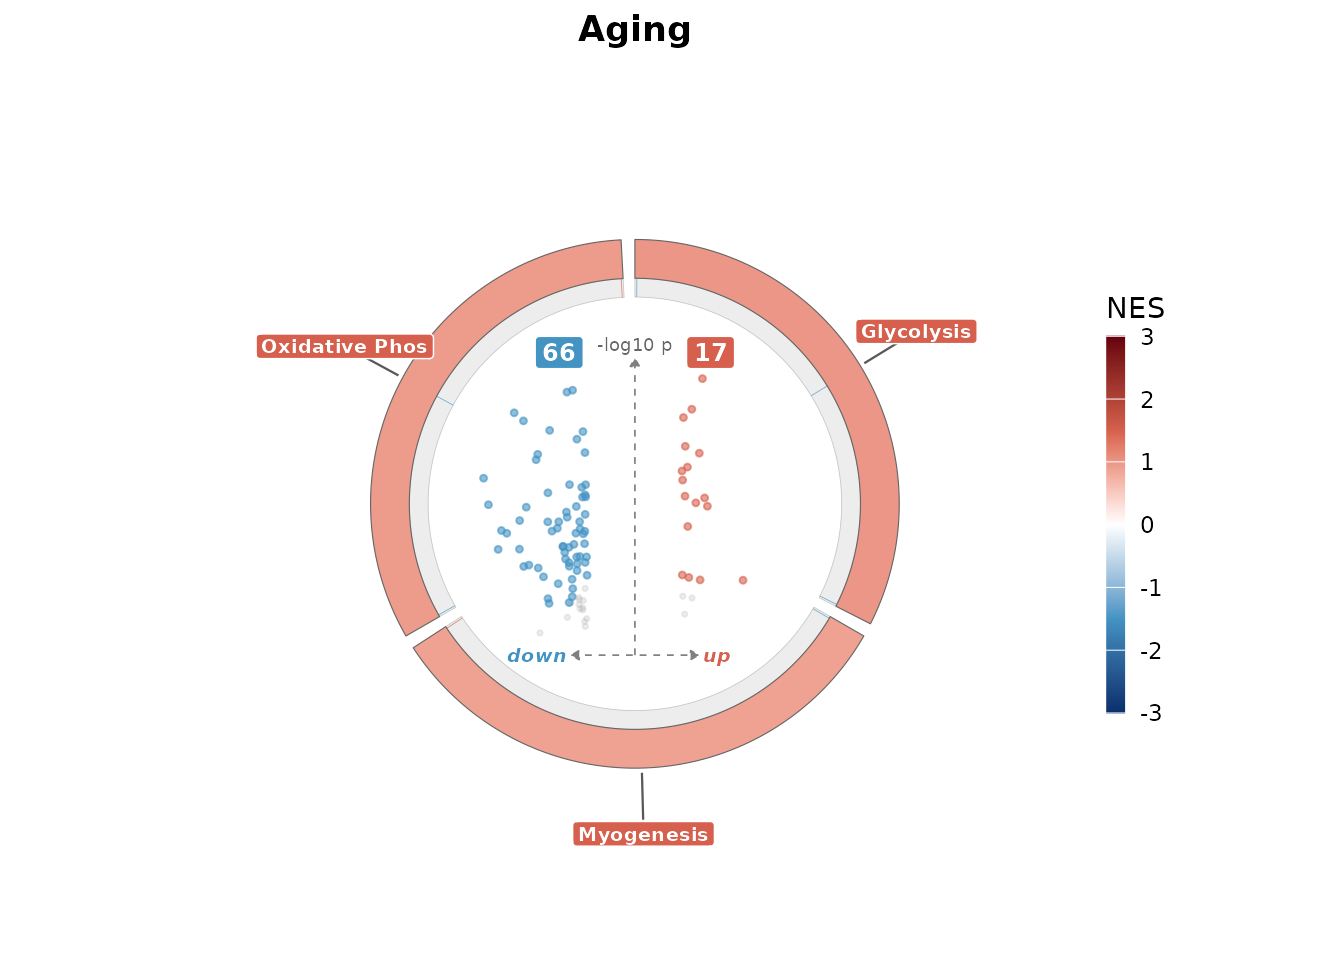
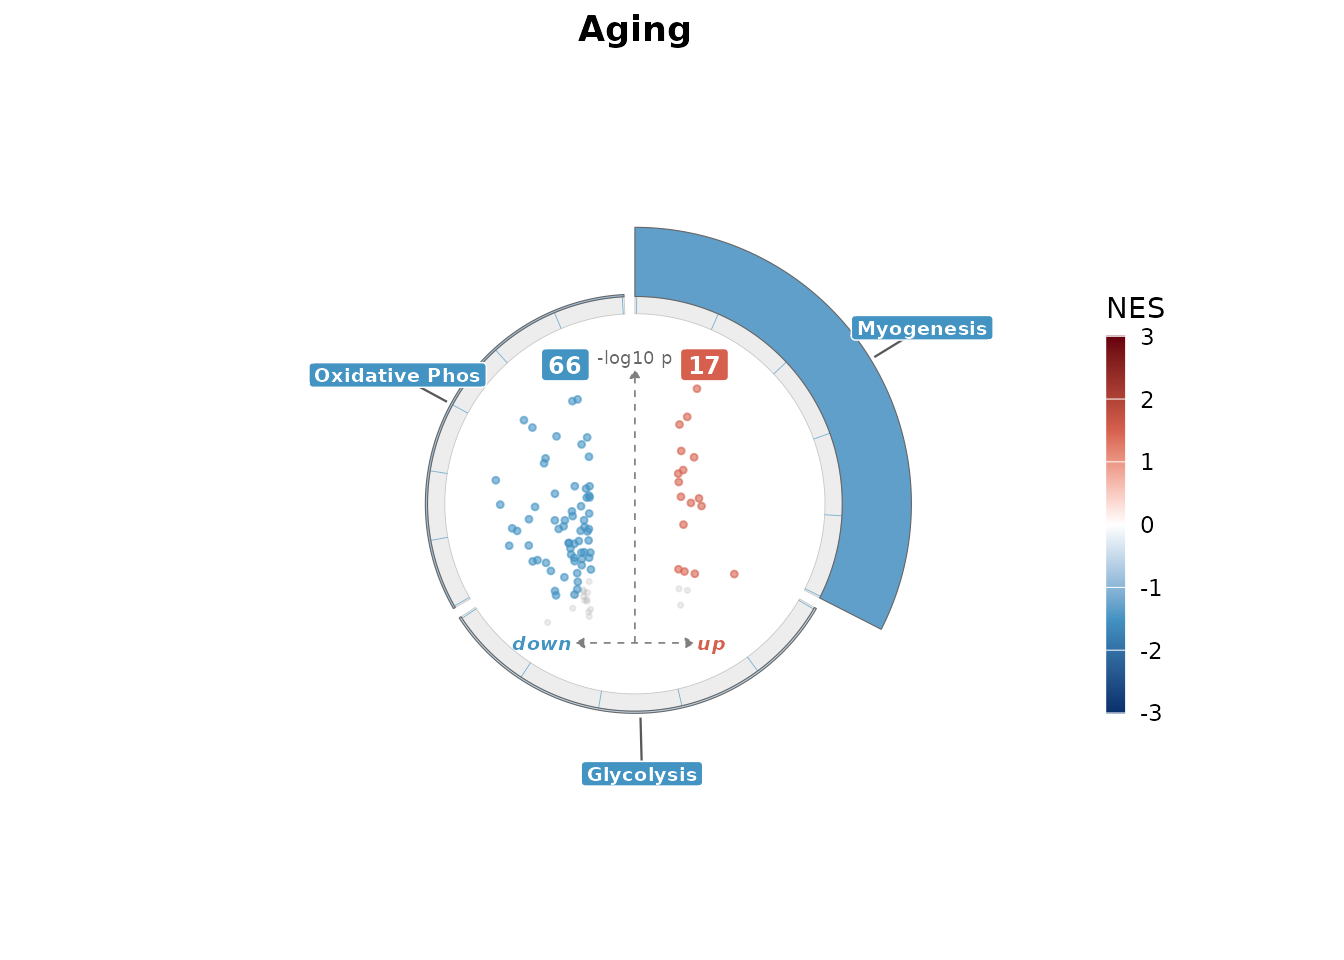
Deploying to gh-pages from @ Dustyn-T-Lewis/enrichVolcano@b8fc824a774aa8ad2f7f0c911ab8c526d25c330e 🚀

Changed region(s): [[0.1875, 0.2188, 0.75, 0.9062], [0.5, 0.5938, 0.5625, 0.625]]

diff --git a/reference/ev_enrich.html b/reference/ev_enrich.html
@@ -50,7 +50,7 @@
 <span>  <span class="va">databases</span>,</span>
 <span>  species <span class="op">=</span> <span class="st">"human"</span>,</span>
 <span>  enrich_mode <span class="op">=</span> <span class="fu"><a href="https://rdrr.io/r/base/c.html" class="external-link">c</a></span><span class="op">(</span><span class="st">"fgsea"</span>, <span class="st">"ora"</span><span class="op">)</span>,</span>
-<span>  rank_by <span class="op">=</span> <span class="st">"pi_eq2"</span>,</span>
+<span>  rank_by <span class="op">=</span> <span class="st">"signed_p"</span>,</span>
 <span>  min_size <span class="op">=</span> <span class="fl">10</span>,</span>
 <span>  max_size <span class="op">=</span> <span class="fl">500</span>,</span>
 <span>  background <span class="op">=</span> <span class="cn">NULL</span>,</span>
@@ -123,7 +123,8 @@ gene-level ranking vectors as <code>attr(., "ev_stats")</code>, both required by
     <div class="section level2">
     <h2 id="details">Details<a class="anchor" aria-label="anchor" href="#details"></a></h2>
     <p>Each entry in <code>databases</code> (or each registered name) produces fgsea and/or
-ORA results. fgsea ranks genes by <code>rank_by</code> (default <code>pi_eq2</code>). ORA uses
+ORA results. fgsea ranks genes by <code>rank_by</code> (default <code>"signed_p"</code> =
+sign(logFC) * -log10(P), a signed statistic). ORA uses
 significant genes (<code>pi_eq2 &lt; 0.05</code> if present, else <code>adj.P.Val &lt; 0.05</code>)
 against the supplied or inferred background.</p>
     </div>

diff --git a/articles/enrichVolcano.html b/articles/enrichVolcano.html
@@ -141,9 +141,6 @@ database:</p>
 <span>                magnitude <span class="op">=</span> <span class="st">"neg_log_padj"</span>, color <span class="op">=</span> <span class="st">"nes"</span><span class="op">)</span>,</span>
 <span>  volcano <span class="op">=</span> <span class="fu"><a href="https://rdrr.io/r/base/list.html" class="external-link">list</a></span><span class="op">(</span>label_n <span class="op">=</span> <span class="fl">8</span>, label_by <span class="op">=</span> <span class="cn">NULL</span><span class="op">)</span></span>
 <span><span class="op">)</span></span>
-<span><span class="co">#&gt; Warning in prepareStats(stats, scoreType, gseaParam): All values in the stats</span></span>
-<span><span class="co">#&gt; vector are greater than zero and scoreType is "std", maybe you should switch to</span></span>
-<span><span class="co">#&gt; scoreType = "pos".</span></span>
 <span><span class="va">fig</span></span>
 <span><span class="co">#&gt; </span></span>
 <span><span class="co">#&gt; ── <span style="font-weight: bold;">enrichVolcano</span> ──</span></span>

diff --git a/reference/ev_enrich.md b/reference/ev_enrich.md
@@ -11,7 +11,7 @@ ev_enrich(
   databases,
   species = "human",
   enrich_mode = c("fgsea", "ora"),
-  rank_by = "pi_eq2",
+  rank_by = "signed_p",
   min_size = 10,
   max_size = 500,
   background = NULL,
@@ -85,6 +85,7 @@ gene-level ranking vectors as `attr(., "ev_stats")`, both required by
 ## Details
 
 Each entry in `databases` (or each registered name) produces fgsea
-and/or ORA results. fgsea ranks genes by `rank_by` (default `pi_eq2`).
-ORA uses significant genes (`pi_eq2 < 0.05` if present, else
-`adj.P.Val < 0.05`) against the supplied or inferred background.
+and/or ORA results. fgsea ranks genes by `rank_by` (default `"signed_p"`
+= sign(logFC) \* -log10(P), a signed statistic). ORA uses significant
+genes (`pi_eq2 < 0.05` if present, else `adj.P.Val < 0.05`) against the
+supplied or inferred background.

diff --git a/articles/enrichVolcano.md b/articles/enrichVolcano.md
@@ -87,9 +87,6 @@ fig <- enrich_volcano(
                 magnitude = "neg_log_padj", color = "nes"),
   volcano = list(label_n = 8, label_by = NULL)
 )
-#> Warning in prepareStats(stats, scoreType, gseaParam): All values in the stats
-#> vector are greater than zero and scoreType is "std", maybe you should switch to
-#> scoreType = "pos".
 fig
 #> 
 #> ── enrichVolcano ──
